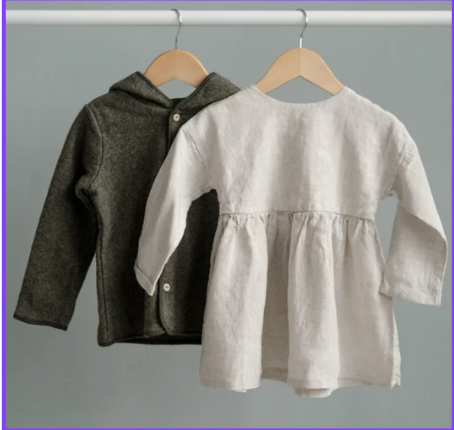
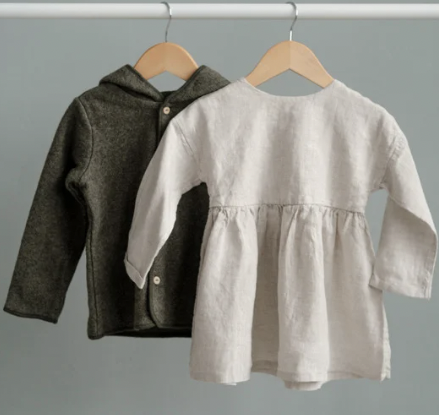
our story

diff --git a/ourstory.html b/ourstory.html
@@ -4,7 +4,7 @@
 <head>
     <meta charset="utf-8" />
     <meta http-equiv="x-ua-compatible" content="ie=edge" />
-    <title>Privacy Policy</title>
+    <title>Our Story</title>
     <meta name="description" content="" />
     <meta name="viewport" content="width=device-width, initial-scale=1" />
     <link rel="shortcut icon" type="image/x-icon" href="assets/images/favicon.svg" />
@@ -86,18 +86,43 @@
     <!-- End Header Area -->
 
 
-    <section class="about section" id="privacy">
+
+    <section class="about section" id="ourstory">
         <div class="container">
             <div class="row align-items-center">
-                <div class="col-12">
+                <div class="col-lg-8 col-12">
                     <div class="content wow fadeInRight" data-wow-delay=".4s">
-                        <h3>Privacy Policy</h3>
-                        <iframe src="https://docs.google.com/document/d/e/2PACX-1vQt__4GR1O_BTlEERt2m2S6uroSeLekxHdu1iC_U_02I9nO-xgoNBzxi1oPeC4W6yhIdjS1l3Gy6lax/pub?embedded=true"></iframe>
+                        <h3>Our Story</h3>
+                        <p>It wasn’t long after my daughter Cece was born in 2019 I realized just how much stuff babies need and use, and also how quickly they outgrow things. Buying everything new for my baby was going to be out of the question, as it’d be too expensive and wasteful. So I began searching for alternative ways to get necessities for my baby - trawling online marketplaces, buying and borrowing items from friends with older children, and visiting thrift stores with fingers crossed they had what I was looking for.</p>
+                        <p>While these methods have sometimes been successful, I’ve kept thinking that there must be a more efficient way to find preloved things for my children. A way that didn’t require spending hours searching online marketplaces for reliable sellers located in my part of town, being disappointed by unanswered bids, or sifting through mountains of baby clothes at the thrift store in hopes of finding the right size.</p>
+                        <p>We live in downtown Toronto, surrounded by families with kids. How nice it’d be to have a place where other families could easily list their outgrown or unused baby items and I could just as easily find exactly what I needed nearby.</p>
+                        <p>A place where not only could I buy things, I could also borrow gear, seasonal clothes, and toys for just as long as needed and return them when we were done using them.</p>
+                        <p>A place for me to find other families who want to give our once treasured and now outgrown things another life. Or for me to make space in my home by lending out items that Cece has outgrown but I want to keep for my toddler, Jojo.</p>
+                        <p>A place rooted in kindness and respect.</p>
+                        <p>This place didn’t exist yet, so I decided to create it. I hope you will find it useful too :)</p>
+                        <p>Xing Brew<br> Mom of Cece and Jojo / Founder of WeeUse</p>
+                        <br>
+                        <img id="fam" src="assets/images/fam.jpeg" alt="#">
+                      </div>
                     </div>
-                </div>
             </div>
         </div>
     </section>
+    <!-- End About Area -->
+
+<!-- Our Story -->
+    <!-- <section class="about section" id="story">
+        <div class="container">
+            <div class="row align-items-center">
+                <div class="col-lg-8 col-12">
+                    <div class="content wow fadeInRight" data-wow-delay=".4s">
+                        <h3>Our Story</h3>
+                        <p></p>
+                    </div>
+                </div>
+            </div>
+
+    </section> -->
     <!-- End About Area -->
 
 
@@ -141,8 +166,8 @@
                                 <ul>
                                   <li><a href="https://docs.google.com/document/d/1Es7gAFI9JPcs_ykw55LI1dErWKwf-F51Z5j8JCk7NNw/edit?usp=sharing" target="_blank">Loan Agreement</a></li>
                                   <li><a href="mailto:hello@weeuse.ca">Contact Us</a></li>
-                                  <li><a href="javascript:void(0)">FAQs</a></li>
-                                    <!--     <li><a href="javascript:void(0)">Testimonials</a></li> -->
+                                  <li><a href="faq.html">FAQs</a></li>
+                                    <!--   <li><a href="javascript:void(0)">Testimonials</a></li> -->
                                 </ul>
                             </div>
                             <!-- End Single Widget -->
@@ -189,7 +214,6 @@
         <!-- End Copyright Area -->
     </footer>
     <!--/ End Footer Area -->
-
     <!-- ========================= scroll-top ========================= -->
     <a href="#" class="scroll-top">
         <i class="lni lni-chevron-up"></i>
@@ -204,7 +228,6 @@
     <script src="assets/js/main.js"></script>
     <script>
 
-
         //====== counter up
         var cu = new counterUp({
             start: 0,
@@ -216,14 +239,14 @@
         cu.start();
     </script>
     <!-- Global site tag (gtag.js) - Google Analytics -->
-<script async src="https://www.googletagmanager.com/gtag/js?id=G-QFEPWDZEDS"></script>
-<script>
-  window.dataLayer = window.dataLayer || [];
-  function gtag(){dataLayer.push(arguments);}
-  gtag('js', new Date());
+  <script async src="https://www.googletagmanager.com/gtag/js?id=G-QFEPWDZEDS"></script>
+  <script>
+    window.dataLayer = window.dataLayer || [];
+    function gtag(){dataLayer.push(arguments);}
+    gtag('js', new Date());
 
-  gtag('config', 'G-QFEPWDZEDS');
-</script>
+    gtag('config', 'G-QFEPWDZEDS');
+  </script>
 </body>
 
 </html>

diff --git a/faq.html b/faq.html
@@ -155,7 +155,7 @@
                                 <div id="collapse5" class="accordion-collapse collapse" aria-labelledby="heading5"
                                     data-bs-parent="#accordionExample">
                                     <div class="accordion-body">
-                                      <p>Our platform does not support cash in hand on collection. A few reasons: I have personally sold items on other online marketplaces, agreed on a price with a buyer, only to have them try to negotiate a lower price or “not bring enough cash” upon pickup, which put me in an awkward spot. I have also purchased items where I’ve been required to send a large e-transfer with fingers crossed the seller would follow through. If you sell through us, you receive the payment straight to your bank account.<br> WeeUse uses Stripe to keep all your banking details secure and we don’t have access to your bank details - it sits on Stripe's super secure platform.<br> WeeUse also relies on service fees collected through transactions on our site to maintain and grow our platform. If several community members take their transactions off the site, we wouldn’t be able to improve our services (or continue to exist!)</p>
+                                      <p>Our platform does not support cash in hand on collection. A few reasons: I have personally sold items on other online marketplaces, agreed on a price with a buyer, only to have them try to negotiate a lower price or “not bring enough cash” upon pickup, which put me in an awkward spot. I have also purchased items where I’ve been required to send a large e-transfer with fingers crossed the seller would follow through. If you sell through us, you receive the payment straight to your bank account.</p><p>WeeUse uses Stripe to keep all your banking details secure and we don’t have access to your bank details - it sits on Stripe's super secure platform.</p><p>WeeUse also relies on service fees collected through transactions on our site to maintain and grow our platform. If several community members take their transactions off the site, we wouldn’t be able to improve our services (or continue to exist!)</p>
                                     </div>
                                 </div>
                             </div>
@@ -276,7 +276,7 @@
                             <div class="accordion-item">
                             <h2 class="accordion-header" id="heading12">
                             <button class="accordion-button collapsed" type="button" data-bs-toggle="collapse"
-                            data-bs-target="#collapse5" aria-expanded="false" aria-controls="collapse12">
+                            data-bs-target="#collapse12" aria-expanded="false" aria-controls="collapse12">
                             <span class="title">Can I return my purchase if I am not happy?
                             </span><i class="lni lni-plus"></i>
                             </button>
@@ -374,7 +374,7 @@
                                     <ul>
                                         <li><a href="about.html">About Us</a></li>
                                         <li><a href="howitworks.html">How it works</a></li>
-                                        <!-- <li><a href="about.html#ourstory">Our story</a></li> -->
+                                        <li><a href="ourstory.html">Our story</a></li>
                                         <li><a href="terms.html">Terms of Service</a></li>
                                         <li><a href="privacy.html">Privacy Policy</a></li>
                                     </ul>
@@ -388,8 +388,8 @@
                                     <ul>
                                       <li><a href="https://docs.google.com/document/d/1Es7gAFI9JPcs_ykw55LI1dErWKwf-F51Z5j8JCk7NNw/edit?usp=sharing" target="_blank">Loan Agreement</a></li>
                                       <li><a href="mailto:hello@weeuse.ca">Contact Us</a></li>
-                                        <!-- <li><a href="javascript:void(0)">FAQs</a></li>
-                                          <li><a href="javascript:void(0)">Testimonials</a></li> -->
+                                      <li><a href="faq.html">FAQs</a></li>
+                                        <!--   <li><a href="javascript:void(0)">Testimonials</a></li> -->
                                     </ul>
                                 </div>
                                 <!-- End Single Widget -->

diff --git a/index.html b/index.html
@@ -139,7 +139,7 @@
                          </div>
                             <div class="content">
                                 <h2>Sell</h2>
-                                <p>Find friendly buyers, avoid uncomfortable price negotiations, and easily and securely accept payment for all your preloved baby and kid items.</p>
+                                <p>Find friendly buyers and easily and securely accept payment for all your preloved baby and kid items.</p>
 
                             </div>
                         </div>
@@ -163,7 +163,7 @@
                            </div>
                               <div class="content">
                                 <h2>Give</h2>
-                                <p>Have you been on the receiving end of lots of gifts and hand-me-downs and want to pass them along? Or just feeling generous? Give away your outgrown and unused items to other families who will give them another life.</p>
+                                <p>Have you been on the receiving end of lots of gifts and hand-me-downs and want to pass them along? Just feeling generous? Give away your outgrown and unused items to other families who will give them another life.</p>
                               </div>
                           </div>
                       </div>
@@ -182,7 +182,7 @@
                               <div class="content wow fadeInRight" data-wow-delay=".4s">
                                 <h4 class="wow zoomIn" data-wow-delay=".2s"></h4>
                                 <h2 class="wow fadeInUp" data-wow-delay=".4s">Travel Light</h2>
-                                <p class="wow fadeInUp" data-wow-delay=".6s">Borrow baby equipment from families at your destination and avoid having to lug all your heavy gear with you! Have friends or family visiting with kids? Borrow cribs, strollers, carseats, and more and save your visitors the hassle of bringing their own.</p>
+                                <p class="wow fadeInUp" data-wow-delay=".6s">Borrow baby equipment from families at your destination and avoid having to lug all your heavy gear with you! Have friends or family visiting with kids? Borrow cribs, strollers, carseats, and more from your neighbours and save your visitors the hassle of bringing their own.</p>
                             </div>
                           </div>
                         </div>
@@ -325,7 +325,7 @@
                                 <ul>
                                     <li><a href="about.html">About Us</a></li>
                                     <li><a href="howitworks.html">How it works</a></li>
-                                    <!-- <li><a href="about.html#ourstory">Our story</a></li> -->
+                                    <li><a href="ourstory.html">Our story</a></li>
                                     <li><a href="terms.html">Terms of Service</a></li>
                                     <li><a href="privacy.html">Privacy Policy</a></li>
                                 </ul>
@@ -339,8 +339,8 @@
                                 <ul>
                                   <li><a href="https://docs.google.com/document/d/1Es7gAFI9JPcs_ykw55LI1dErWKwf-F51Z5j8JCk7NNw/edit?usp=sharing" target="_blank">Loan Agreement</a></li>
                                   <li><a href="mailto:hello@weeuse.ca">Contact Us</a></li>
-                                    <!-- <li><a href="javascript:void(0)">FAQs</a></li>
-                                      <li><a href="javascript:void(0)">Testimonials</a></li> -->
+                                   <li><a href="faq.html">FAQs</a></li>
+                                      <!--  <li><a href="javascript:void(0)">Testimonials</a></li> -->
                                 </ul>
                             </div>
                             <!-- End Single Widget -->

diff --git a/howitworks.html b/howitworks.html
@@ -325,7 +325,7 @@
                                     <ul>
                                         <li><a href="about.html">About Us</a></li>
                                         <li><a href="howitworks.html">How it works</a></li>
-                                        <!-- <li><a href="about.html#ourstory">Our story</a></li> -->
+                                        <li><a href="ourstory.html">Our story</a></li>
                                         <li><a href="terms.html">Terms of Service</a></li>
                                         <li><a href="privacy.html">Privacy Policy</a></li>
                                     </ul>
@@ -339,8 +339,8 @@
                                     <ul>
                                       <li><a href="https://docs.google.com/document/d/1Es7gAFI9JPcs_ykw55LI1dErWKwf-F51Z5j8JCk7NNw/edit?usp=sharing" target="_blank">Loan Agreement</a></li>
                                       <li><a href="mailto:hello@weeuse.ca">Contact Us</a></li>
-                                        <!-- <li><a href="javascript:void(0)">FAQs</a></li>
-                                          <li><a href="javascript:void(0)">Testimonials</a></li> -->
+                                      <li><a href="faq.html">FAQs</a></li>
+                                          <!-- <li><a href="javascript:void(0)">Testimonials</a></li> -->
                                     </ul>
                                 </div>
                                 <!-- End Single Widget -->

diff --git a/terms.html b/terms.html
@@ -131,7 +131,7 @@
                                 <ul>
                                     <li><a href="about.html">About Us</a></li>
                                     <li><a href="howitworks.html">How it works</a></li>
-                                    <!-- <li><a href="about.html#ourstory">Our story</a></li> -->
+                                    <li><a href="ourstory.html">Our story</a></li>
                                     <li><a href="terms.html">Terms of Service</a></li>
                                     <li><a href="privacy.html">Privacy Policy</a></li>
                                 </ul>
@@ -145,8 +145,8 @@
                                 <ul>
                                   <li><a href="https://docs.google.com/document/d/1Es7gAFI9JPcs_ykw55LI1dErWKwf-F51Z5j8JCk7NNw/edit?usp=sharing" target="_blank">Loan Agreement</a></li>
                                   <li><a href="mailto:hello@weeuse.ca">Contact Us</a></li>
-                                    <!-- <li><a href="javascript:void(0)">FAQs</a></li>
-                                      <li><a href="javascript:void(0)">Testimonials</a></li> -->
+                                    <li><a href="javascript:void(0)">FAQs</a></li>
+                                  <!--     <li><a href="javascript:void(0)">Testimonials</a></li> -->
                                 </ul>
                             </div>
                             <!-- End Single Widget -->

diff --git a/about.html b/about.html
@@ -217,7 +217,7 @@
                                 <ul>
                                     <li><a href="about.html">About Us</a></li>
                                     <li><a href="howitworks.html">How it works</a></li>
-                                    <!-- <li><a href="about.html#ourstory">Our story</a></li> -->
+                                    <li><a href="ourstory.html">Our story</a></li>
                                     <li><a href="terms.html">Terms of Service</a></li>
                                     <li><a href="privacy.html">Privacy Policy</a></li>
                                 </ul>
@@ -231,8 +231,8 @@
                                 <ul>
                                   <li><a href="https://docs.google.com/document/d/1Es7gAFI9JPcs_ykw55LI1dErWKwf-F51Z5j8JCk7NNw/edit?usp=sharing" target="_blank">Loan Agreement</a></li>
                                   <li><a href="mailto:hello@weeuse.ca">Contact Us</a></li>
-                                    <!-- <li><a href="javascript:void(0)">FAQs</a></li>
-                                      <li><a href="javascript:void(0)">Testimonials</a></li> -->
+                                  <li><a href="faq.html">FAQs</a></li>
+                                    <!--   <li><a href="javascript:void(0)">Testimonials</a></li> -->
                                 </ul>
                             </div>
                             <!-- End Single Widget -->
